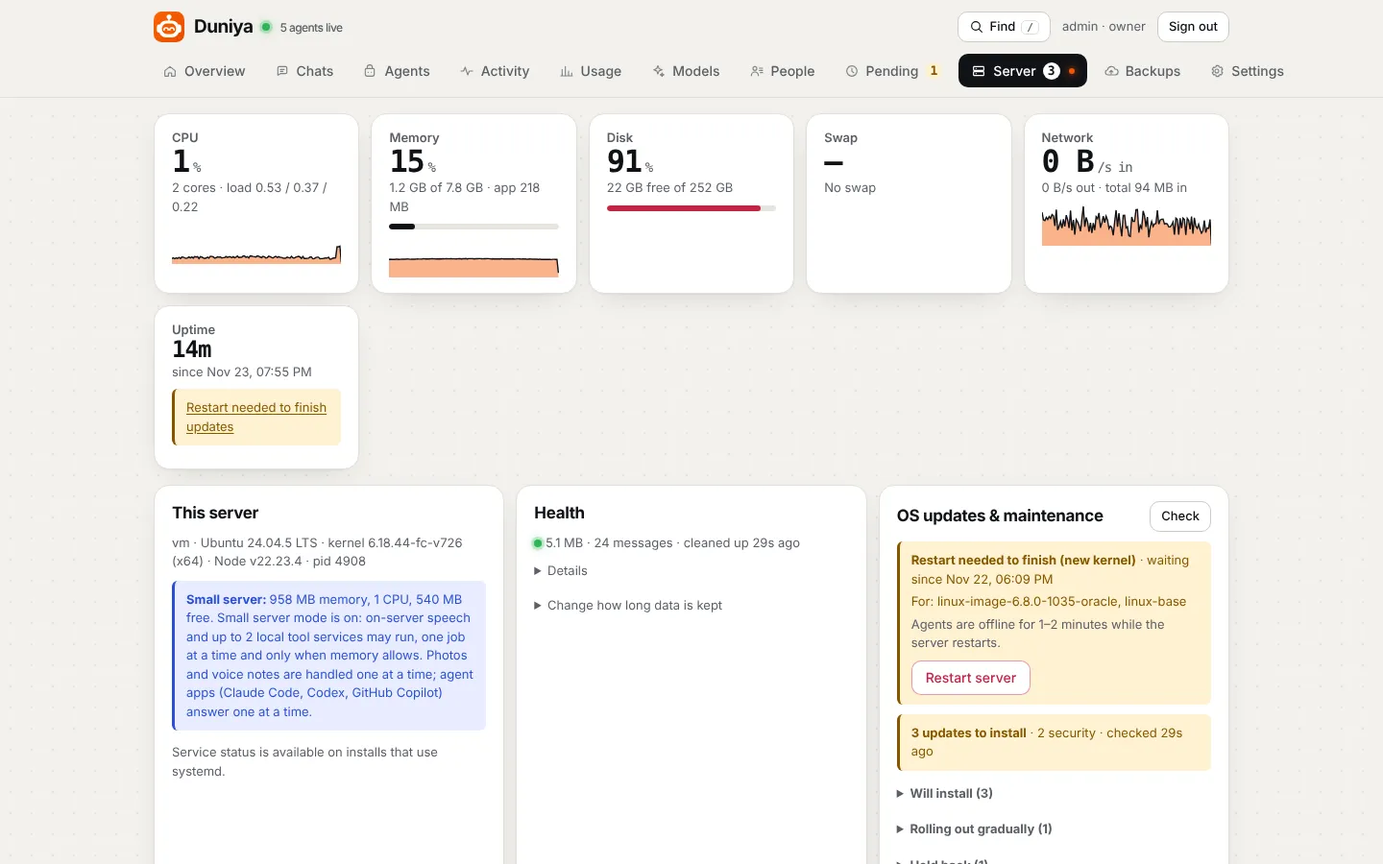
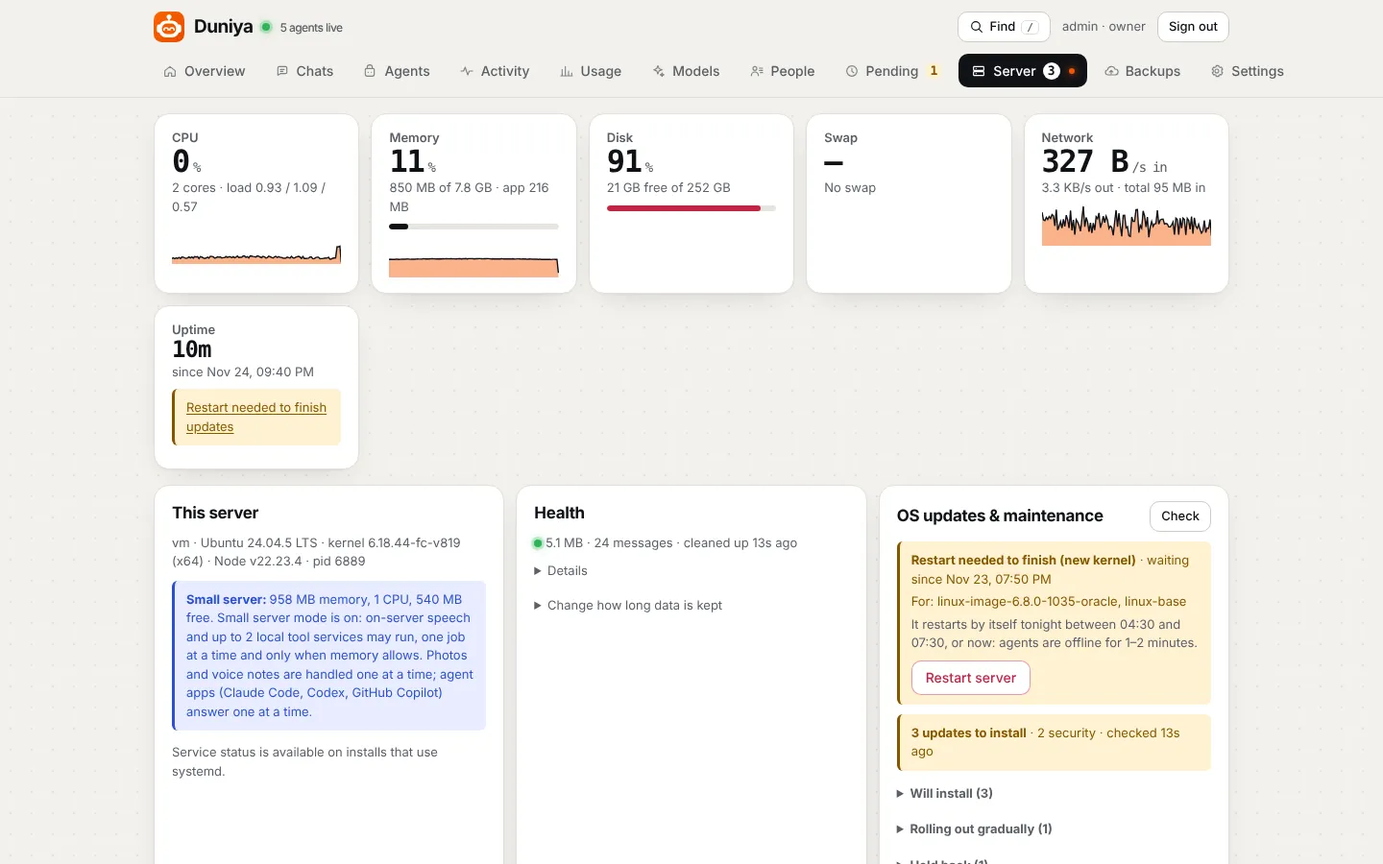
Automatic OS updates, on by default (2.63.0)
Installer servers install waiting OS updates once a night (30 min after the app's update time, for 3 h, owner's clock) through the maintenance helper and restart when an update needs it, once a night; never while an app update or another helper action runs. Switch on Server -> OS updates & maintenance; admin MCP set_os_auto_updates. Spec 098, #307.

diff --git a/test/os-auto.test.js b/test/os-auto.test.js
@@ -1,0 +1,97 @@
+// 098: automatic OS updates — on by default; once a night after the app's update time the helper installs waiting OS
+// updates, then the server restarts when an update asked for it; never while something else runs. Fake helper
+// directories and captured apt output (test/fixtures/apt); no real apt or reboot.
+import { test, after, beforeEach } from 'node:test';
+import assert from 'node:assert/strict';
+import { mkdtempSync, mkdirSync, writeFileSync, readFileSync, existsSync, rmSync } from 'node:fs';
+import { tmpdir } from 'node:os';
+import { join, resolve } from 'node:path';
+import { setup } from './harness.js';
+
+const FX = resolve(import.meta.dirname, 'fixtures/apt');
+const ops = mkdtempSync(join(tmpdir(), 'duniya-osauto-'));
+for (const d of ['req', 'state', 'apt']) mkdirSync(join(ops, d));
+writeFileSync(join(ops, 'helper'), '#!/bin/sh\n# duniya-ops-version: 3\n');
+const APT = join(ops, 'apt');
+const REBOOT = join(ops, 'reboot-required');
+const REQUEST = join(ops, 'req', 'request');
+const STATUS = join(ops, 'state', 'status.json');
+const t = await setup({ env: {
+  DUNIYA_OPS_HELPER: join(ops, 'helper'), DUNIYA_OPS_REQUEST_DIR: join(ops, 'req'), DUNIYA_OPS_STATE_DIR: join(ops, 'state'),
+  DUNIYA_FAKE_APT: APT, DUNIYA_REBOOT_REQUIRED_FILE: REBOOT, TZ_DEFAULT: 'UTC',
+} });
+const { osAutoTick } = await import('../src/core/os-auto.js');
+const { kvSet } = await import('../src/core/db.js');
+const owner = await t.login();
+after(() => t.close());
+
+const at = (day, hh, mm) => Date.UTC(2026, 10, day, hh, mm);
+const waiting = (yes) => writeFileSync(join(APT, 'simulate.txt'), yes ? readFileSync(join(FX, 'sim-full-upgrade-phased-held.txt'), 'utf8') : '');
+const requested = () => (existsSync(REQUEST) ? readFileSync(REQUEST, 'utf8').trim() : null);
+const helperDone = () => { rmSync(REQUEST, { force: true }); writeFileSync(STATUS, JSON.stringify({ action: 'os-update', state: 'done', code: 0, startedAt: 1, endedAt: 2 })); };
+beforeEach(async () => {
+  helperDone(); rmSync(REBOOT, { force: true });
+  kvSet('os:autoInstall', ''); kvSet('os:autoRestart', '');
+  writeFileSync(join(APT, 'policy.txt'), readFileSync(join(FX, 'policy.txt'), 'utf8'));
+  writeFileSync(join(APT, 'holds.txt'), 'docker-ce\n');
+  await t.api(owner, 'PUT', '/api/updates/settings', { os: 'auto', at: '04:00' });
+});
+
+test('098 on by default: the OS updates card shows the night window; off and back on; bad values refused', async () => {
+  const fresh = (await import('../src/core/updates.js')).getUpdateSettings;
+  assert.equal(fresh().os, 'auto');
+  assert.deepEqual((await t.api(owner, 'GET', '/api/system/ops')).body.auto, { on: true, from: '04:30', until: '07:30' });
+  assert.equal((await t.api(owner, 'PUT', '/api/updates/settings', { os: 'off' })).body.os, 'off');
+  assert.equal((await t.api(owner, 'GET', '/api/system/ops')).body.auto.on, false);
+  const bad = await t.api(owner, 'PUT', '/api/updates/settings', { os: 'sometimes' });
+  assert.equal(bad.status, 400); assert.equal(bad.body.field, 'os');
+});
+
+test('098 a night: outside the window nothing; in it the updates install, then one restart; nothing more that night', async () => {
+  waiting(true);
+  assert.equal((await osAutoTick(at(24, 4, 10))).action, 'later', 'the app update comes first');
+  assert.equal((await osAutoTick(at(24, 12, 0))).action, 'later', 'never in the day');
+  assert.equal(requested(), null);
+  const r = await osAutoTick(at(24, 4, 40));
+  assert.deepEqual(r, { action: 'installing', count: 3 });
+  assert.equal(requested(), 'os-update');
+  const logged = (await t.api(owner, 'GET', '/api/activity?limit=5')).body;
+  assert.ok(logged.some((e) => e.summary === 'Install OS updates requested by automatic OS updates'));
+  writeFileSync(STATUS, JSON.stringify({ action: 'os-update', state: 'running', startedAt: Date.now() }));
+  assert.equal((await osAutoTick(at(24, 4, 50))).action, 'busy', 'waits for the helper');
+  helperDone(); writeFileSync(REBOOT, '*** System restart required ***\n');
+  assert.equal((await osAutoTick(at(24, 5, 0))).action, 'restarting');
+  assert.equal(requested(), 'reboot');
+  helperDone(); // the server is back; the restart file would stay if a new kernel came later
+  assert.equal((await osAutoTick(at(24, 5, 10))).action, 'none', 'once a night');
+});
+
+test('098 nothing waiting and no restart needed: nothing runs; a restart left from a manual install happens at night', async () => {
+  waiting(false);
+  assert.equal((await osAutoTick(at(24, 4, 40))).action, 'none');
+  assert.equal(requested(), null);
+  writeFileSync(REBOOT, 'x');
+  assert.equal((await osAutoTick(at(24, 4, 50))).action, 'restarting');
+});
+
+test('098 off, or a window across midnight counted as one night', async () => {
+  waiting(true);
+  await t.api(owner, 'PUT', '/api/updates/settings', { os: 'off' });
+  assert.equal((await osAutoTick(at(24, 4, 40))).action, 'off');
+  await t.api(owner, 'PUT', '/api/updates/settings', { os: 'auto', at: '23:00' });
+  assert.equal((await osAutoTick(at(24, 23, 40))).action, 'installing');
+  helperDone();
+  assert.equal((await osAutoTick(at(25, 0, 20))).action, 'none', 'after midnight it is still the same night');
+});
+
+test('098 admin MCP: set_os_auto_updates asks before switching on, not before switching off', async () => {
+  const { TOOLS } = await import('../src/panel/admin-tools.js');
+  const tool = TOOLS.find((x) => x.name === 'set_os_auto_updates');
+  assert.equal(tool.risky({ on: true }), true); assert.equal(tool.risky({ on: false }), false);
+  const calls = [];
+  const x = { call: async (m, p, b) => { calls.push([m, p, b]); return p === '/api/system/ops' ? { auto: { from: '04:30', until: '07:30' } } : {}; } };
+  assert.match(await tool.preview({ on: true }, x), /between 04:30 and 07:30/);
+  await tool.run({ on: false }, x);
+  assert.deepEqual(calls.at(-1), ['PUT', '/api/updates/settings', { os: 'off' }]);
+  assert.match(TOOLS.find((y) => y.name === 'get_maintenance_status').description, /set_os_auto_updates/);
+});

diff --git a/src/panel/public/app/server.js b/src/panel/public/app/server.js
@@ -1,5 +1,5 @@
 // Server screen: metrics, health, OS updates, maintenance helper, logs, hosting. Module of the panel (063).
-import { $, S, ago, api, ask, can, field, h, partFailed, serverBadge, time, tryApi } from './core.js';
+import { $, S, ago, api, ask, can, field, h, partFailed, serverBadge, time, toggle, tryApi } from './core.js';
 import { docsUrl, SIZE_LABEL, bytes, meter, pct, plural } from './shared.js';
 function spark(values, max) {
   const ns = 'http://www.w3.org/2000/svg'; const svg = document.createElementNS(ns, 'svg');
@@ -130,7 +130,7 @@ export async function renderServer() {
       h('b', {}, `Restart needed to finish${reboot.kernel ? ' (new kernel)' : ' updates'}`),
       reboot.since ? ` · waiting since ${time(reboot.since)}` : '',
       reboot.packages?.length ? h('div', { class: 'small', style: 'margin-top:4px;overflow-wrap:anywhere' }, `For: ${reboot.packages.slice(0, 12).join(', ')}${reboot.packages.length > 12 ? ` and ${reboot.packages.length - 12} more` : ''}`) : null,
-      h('div', { class: 'small muted', style: 'margin-top:4px' }, 'Agents are offline for 1–2 minutes while the server restarts.'),
+      h('div', { class: 'small muted', style: 'margin-top:4px' }, ops?.auto?.on ? `It restarts by itself tonight between ${ops.auto.from} and ${ops.auto.until}, or now: agents are offline for 1–2 minutes.` : 'Agents are offline for 1–2 minutes while the server restarts.'),
       can('owner') && ops?.available ? h('div', { class: 'row', style: 'margin-top:8px' }, act('reboot', 'Restart server', 'danger', { title: 'Restart the whole server now?', text: 'This finishes the updates. Agents are offline for 1–2 minutes and catch up on messages afterwards.', body: reboot.packages?.length ? h('div', {}, h('b', { class: 'small' }, 'Waiting for the restart'), h('ul', { class: 'small' }, reboot.packages.slice(0, 30).map((p) => h('li', {}, p)))) : null })) : null) : null;
     const phasedHint = 'Ubuntu rolls these out gradually: it installs them automatically within days. They are not needed now.';
     const updates = !upd ? null : !upd.supported ? h('p', { class: 'small muted' }, 'OS update checks are available on Debian/Ubuntu servers.')
@@ -156,12 +156,19 @@ export async function renderServer() {
         : h('div', { class: 'note info', id: 'helper-update', style: 'margin-top:10px' },
           h('b', {}, 'This server has an older maintenance helper'), ' that cannot update itself yet. Run ', h('code', {}, 'sudo duniya update'),
           ' on the server once; after that it updates itself from here. No SSH access (for example an Oracle server created without an SSH key)? Reinstall instead: ', helperDoc, ' (your data comes back from a backup).');
+    // 098: automatic OS updates (on by default): install every night and restart when an update needs it
+    const auto = ops?.auto && ops.available ? h('div', { class: 'row spread nowrap', id: 'os-auto', style: 'margin:10px 0' },
+      h('span', {}, h('b', {}, 'Install OS updates automatically'), h('span', { class: 'small muted', style: 'display:block' },
+        ops.auto.on ? `Every night between ${ops.auto.from} and ${ops.auto.until} (your time), when updates are waiting. If one needs a restart, the server restarts then too: agents are offline for 1–2 minutes.`
+          : 'Off: OS updates wait for you to install them here.')),
+      toggle(ops.auto.on, (on) => tryApi(async () => { await api('PUT', '/api/updates/settings', { os: on ? 'auto' : 'off' }); opsCard(); }, on ? 'OS updates install automatically' : 'Automatic OS updates off'), false, 'Install OS updates automatically')) : null;
     opsBox.replaceChildren(h('div', { class: 'row spread' }, h('h2', { style: 'margin:0' }, 'OS updates & maintenance'),
       h('button', { class: 'btn small', onclick: async (e) => { e.target.disabled = true; await api('GET', '/api/system/os-updates?refresh=1').catch(() => {}); opsCard(); } }, 'Check')),
       failed ? partFailed(failed, '', opsCard) : null, restartBanner, updates,
       can('owner') ? (ops?.available ? h('div', {},
         run ? h('div', { class: 'note' }, h('span', { class: 'spinner' }), h('b', {}, ` ${ops.actions[run.action] || run.action}…`), ` started ${ago(run.startedAt)} ago`) : null,
         lastLine,
+        auto,
         h('div', { class: 'row', style: 'margin-top:8px' },
           act('os-update', 'Install OS updates', 'primary', { title: 'Install the OS updates now?', text: 'The server stays online. Updates Ubuntu is still rolling out gradually wait. A restart may be needed afterwards.', body: pkgList(upd?.install) }),
           upd?.phased?.length && ops.helperCurrent ? act('os-update-all', 'Include gradual updates now', '', { title: `Also install ${plural(upd.phased.length, 'gradual update')}?`, text: 'Ubuntu is still rolling these out gradually; normally they arrive within days.', body: pkgList(upd.phased) }) : null,

diff --git a/docs/site/index.html b/docs/site/index.html
@@ -303,7 +303,7 @@
       <article class="tile third">
         <span class="label">Backups &amp; updates</span>
         <h3>Encrypted backups. Updates that tell you what's new.</h3>
-        <p>Scheduled, encrypted backups to a private GitHub repo or S3. Updates install from the panel after a backup and show every release in between; breaking ones wait for your OK on the panel or WhatsApp. A release that does not start on your server is rolled back by itself.</p>
+        <p>Scheduled, encrypted backups to a private GitHub repo or S3. Updates install from the panel after a backup and show every release in between; breaking ones wait for your OK on the panel or WhatsApp. A release that does not start on your server is rolled back by itself, and OS updates install by themselves at night (with a restart when one needs it).</p>
         <a class="shot tall" href="img/card-update-notes.webp"><img src="img/card-update-notes.webp" width="1280" height="1358" loading="lazy" alt="Update dialog: the releases in between with what is new, improved and fixed, and the buttons Not now and Update."></a>
       </article>
     </div>
@@ -397,7 +397,7 @@
       <details><summary>Only WhatsApp?</summary><p>WhatsApp and Telegram. Telegram works through an official bot: paste its token, add it to a group, and the same agents answer there; people who share their number are the same person on both apps. Channels load only when you set one up, so neither costs memory until then. <a href="https://github.com/vikramgorla/duniya/blob/main/docs/telegram.md">Connect Telegram</a></p></details>
       <details><summary>What do I need to start?</summary><p>A spare phone number for the agents (a prepaid SIM in an old phone is fine), or a Telegram bot; a free Oracle or Google Cloud account (or any small Linux server); and a model: a free OpenRouter key takes two minutes. The panel's <b>Getting started</b> then takes about five taps.</p></details>
       <details><summary>Something did not work. Where do I look?</summary><p>The <a href="https://github.com/vikramgorla/duniya/blob/main/docs/troubleshooting.md">troubleshooting guide</a> covers the ten most common first-day problems (QR code, phone offline, model key, a silent agent, HTTPS, memory, updates). The panel's <b>Why agents stayed quiet</b> names the reason an agent did not answer, with the fix. Still stuck? Open an issue with the <i>Question or help</i> template.</p></details>
-      <details><summary>Do I need to know Linux?</summary><p>No. The Oracle and Google buttons need no terminal skills, and afterwards updates, OS packages, logs, restarts and backups are buttons in the panel.</p></details>
+      <details><summary>Do I need to know Linux?</summary><p>No. The Oracle and Google buttons need no terminal skills, and afterwards OS updates install by themselves at night; app updates, logs, restarts and backups are buttons in the panel.</p></details>
       <details><summary>Can several people manage it?</summary><p>Yes: owners, admins and viewers, with passwords or Sign in with Google. You can also manage it from ChatGPT or Claude, with the same roles and a confirmation for risky actions.</p></details>
       <details><summary>Can I fork it and run my own version?</summary><p>Yes, it is MIT licensed. Fork it on GitHub and enable Actions: a workflow points the install command, the buttons, this website and the Docker image at your fork and opens a pull request. Servers can then install from your fork (<code>DUNIYA_REPO=you/duniya</code>) or switch to it under <b>Settings → Updates</b>. <a href="https://github.com/vikramgorla/duniya/blob/main/CONTRIBUTING.md#forking">How to fork</a>.</p></details>
       <details><summary>How do I report a security issue?</summary><p>Privately, through GitHub's “Report a vulnerability” on the repository; see <a href="https://github.com/vikramgorla/duniya/blob/main/SECURITY.md">SECURITY.md</a>.</p></details>

diff --git a/src/panel/admin-tools/server.js b/src/panel/admin-tools/server.js
@@ -90,7 +90,7 @@ export const SERVER_TOOLS = [
   { name: 'list_os_updates', openWorld: true, readOnly: true, calls: [['GET', '/api/system/os-updates']], description: 'Operating-system package updates, grouped: install (will install now; count = how many), phased (Ubuntu is rolling them out gradually: they install automatically within days, or now with run_maintenance os-update-all) and held (kept back, with the reason in why).',
     input: { refresh: bool('Check again now (slower)') },
     run: (a, x) => x.call('GET', `/api/system/os-updates${a.refresh ? '?refresh=1' : ''}`) },
-  { name: 'get_maintenance_status', readOnly: true, calls: [['GET', '/api/system/ops']], description: 'Available server maintenance actions, the state of the last one, result.text (summary of the last OS update), reboot (whether a restart is needed to finish updates, and for which packages) and the maintenance helper: helperVersion, helperBundled (the one this release ships), helperOutdated, helperSelfUpdate (it can update itself with run_maintenance update-helper; otherwise sudo duniya update once or a reinstall).', input: {},
+  { name: 'get_maintenance_status', readOnly: true, calls: [['GET', '/api/system/ops']], description: 'Available server maintenance actions, the state of the last one, result.text (summary of the last OS update), reboot (whether a restart is needed to finish updates, and for which packages), auto (automatic OS updates: on, and the night window from–until in the owner\'s time; set_os_auto_updates) and the maintenance helper: helperVersion, helperBundled (the one this release ships), helperOutdated, helperSelfUpdate (it can update itself with run_maintenance update-helper; otherwise sudo duniya update once or a reinstall).', input: {},
     run: (a, x) => x.call('GET', '/api/system/ops') },
   { name: 'run_maintenance', openWorld: true, risky: true, calls: [['POST', '/api/system/ops']],
     description: 'Run a server maintenance action: os-update (install OS updates; Ubuntu\'s gradual roll-outs wait), os-update-all (also the updates Ubuntu is still rolling out gradually), os-cleanup, restart-web, restart-tunnel, reboot (also finishes updates that need a restart) or update-helper (the root maintenance helper fetches the copy of this app\'s release from the repository it was installed from and installs it; get_maintenance_status shows helperOutdated / helperSelfUpdate). Needs confirm_action.',
@@ -106,6 +106,11 @@ export const SERVER_TOOLS = [
       return `${label}. ${effect}`.trim();
     },
     run: (a, x) => x.call('POST', '/api/system/ops', { action: a.action }) },
+  { name: 'set_os_auto_updates', calls: [['PUT', '/api/updates/settings']], risky: (a) => a.on === true,
+    description: 'Automatic OS updates on installer servers (098, on by default): every night after the app\'s update time the maintenance helper installs the waiting OS updates and restarts the server when one needs it (agents offline 1–2 minutes). on: false leaves OS updates to run_maintenance. get_maintenance_status → auto: { on, from, until } (the owner\'s times). Turning it on needs confirm_action.',
+    input: { on: bool('Install OS updates automatically') }, required: ['on'],
+    preview: async (a, x) => { const w = (await x.call('GET', '/api/system/ops')).auto; return `Install OS updates automatically every night between ${w.from} and ${w.until} (owner's time) and restart the server when an update needs it (agents offline 1–2 minutes).`; },
+    run: (a, x) => x.call('PUT', '/api/updates/settings', { os: a.on ? 'auto' : 'off' }) },
   { name: 'restart_app', risky: true, calls: [['POST', '/api/system/restart']], description: 'Restart the app. Needs confirm_action.', input: {},
     preview: async () => 'Restart the app. Agents are offline for about a minute and this connection drops briefly.',
     run: (a, x) => x.call('POST', '/api/system/restart') },

diff --git a/src/core/os-auto.js b/src/core/os-auto.js
@@ -1,0 +1,51 @@
+// @ts-check
+// Automatic OS updates (098). On installer servers the root maintenance helper installs the waiting OS updates every
+// night, a little after the app's own update time (the owner's clock), and restarts the server when an update needs
+// it (a new kernel). On by default: update settings `os` ('auto' | 'off'). It rides the update scheduler's round
+// (update-decision.js, every 10 minutes), so it has no timer of its own; each step happens at most once a night.
+import { getUpdateSettings, updateRunning } from './updates.js';
+import { opsAvailable, opsRunning, osUpdates, rebootStatus, requestOp } from './system.js';
+import { ownerDay, ownerNow } from './owner-clock.js';
+import { kvGet, kvSet } from './db.js';
+
+const MINUTE = 60 * 1000;
+const DAY_MIN = 24 * 60;
+const AFTER_APP_MIN = 30; // the app's own update (and its restart) comes first
+const WINDOW_MIN = 180; // then three hours: a server that was off at the start still updates, never in the owner's day
+const BY = 'automatic OS updates';
+const INSTALLED = 'os:autoInstall'; // the night (owner's date the window opened) of the last check-and-install
+const RESTARTED = 'os:autoRestart'; // the night of the last automatic restart
+
+const minutesOf = (hhmm) => Number(hhmm.slice(0, 2)) * 60 + Number(hhmm.slice(3, 5));
+const hhmmOf = (min) => `${String(Math.floor(min / 60)).padStart(2, '0')}:${String(min % 60).padStart(2, '0')}`;
+/** Minutes since tonight's window opened, or null outside it (it may cross midnight). */
+function minutesIntoWindow(at, hhmm) {
+  const since = (minutesOf(hhmm) - minutesOf(at) - AFTER_APP_MIN + 2 * DAY_MIN) % DAY_MIN;
+  return since <= WINDOW_MIN ? since : null;
+}
+
+/** What the panel and the admin MCP show: { on, from, until } (the owner's times). */
+export function osAutoState() {
+  const s = getUpdateSettings();
+  const from = (minutesOf(s.at) + AFTER_APP_MIN) % DAY_MIN;
+  return { on: s.os === 'auto', from: hhmmOf(from), until: hhmmOf((from + WINDOW_MIN) % DAY_MIN) };
+}
+
+/** One round: install waiting OS updates once a night, then restart once when an update asked for it. */
+export async function osAutoTick(now = Date.now()) {
+  const s = getUpdateSettings();
+  if (s.os !== 'auto' || !opsAvailable()) return { action: 'off' };
+  const since = minutesIntoWindow(s.at, ownerNow(now).hhmm);
+  if (since === null) return { action: 'later' };
+  if (updateRunning() || opsRunning()) return { action: 'busy' };
+  const night = ownerDay(now - since * MINUTE);
+  if (kvGet(INSTALLED) !== night) {
+    kvSet(INSTALLED, night);
+    const waiting = await osUpdates({ refresh: true });
+    if (waiting.supported && waiting.count) { requestOp('os-update', BY); return { action: 'installing', count: waiting.count }; }
+  }
+  if (!rebootStatus().required || kvGet(RESTARTED) === night) return { action: 'none' };
+  kvSet(RESTARTED, night);
+  requestOp('reboot', BY);
+  return { action: 'restarting' };
+}

diff --git a/src/core/system.js b/src/core/system.js
@@ -315,6 +315,13 @@ function opsHelperVersion() {
 /** The helper version this app release ships (deploy/ops/duniya-ops in the app's checkout; read, never run). */
 const opsHelperBundled = () => helperVersionOf(read(`${ROOT}/deploy/ops/duniya-ops`));
 const RELEASE_RE = /^v\d{1,4}\.\d{1,4}\.\d{1,4}$/;
+const RUN_STALE_MS = 60 * 60000; // a run the helper never finished (a reboot cut it off) stops counting after an hour
+/** The maintenance action running now ({ action, startedAt }) or null. */
+export function opsRunning() {
+  let status = null;
+  try { status = JSON.parse(read(`${OPS_STATE_DIR}/status.json`) || 'null'); } catch { /* none */ }
+  return status?.state === 'running' && Date.now() - (status.startedAt || 0) < RUN_STALE_MS ? status : null;
+}
 export function opsStatus() {
   let status = null;
   try { status = JSON.parse(read(`${OPS_STATE_DIR}/status.json`) || 'null'); } catch { /* none */ }
@@ -346,8 +353,8 @@ export function requestOp(action, by = '', { files = {} } = {}) {
     if (!RELEASE_RE.test(v)) throw fail('The app version is not a release number');
     files = { ...files, 'helper-version': `${v}\n` }; // the helper accepts only vX.Y.Z and fetches that release itself
   }
-  const cur = opsStatus().status;
-  if (cur?.state === 'running' && Date.now() - (cur.startedAt || 0) < 60 * 60000) throw fail(`Already running: ${cur.action}`, 409);
+  const cur = opsRunning();
+  if (cur) throw fail(`Already running: ${cur.action}`, 409);
   mkdirSync(OPS_REQUEST_DIR, { recursive: true });
   for (const [name, content] of Object.entries(files)) writeFileSync(`${OPS_REQUEST_DIR}/${name}`, content, { mode: 0o640 }); // read by the helper
   writeFileSync(`${OPS_REQUEST_DIR}/request`, `${action}\n`);

diff --git a/src/panel/routes/system.js b/src/panel/routes/system.js
@@ -12,6 +12,7 @@ import { applyPending } from '../../core/runner.js';
 import { referencedSecrets } from '../../core/schema.js';
 import { CHANNELS } from '../../channels/index.js';
 import { getSetting, listSecrets, setSecret, updateSettings } from '../../core/store.js';
+import { osAutoState } from '../../core/os-auto.js';
 import { logs as sysLogs, metricsHistory, opsStatus, osUpdates, requestOp, snapshot as sysSnapshot } from '../../core/system.js';
 import { PLAN_PROVIDERS, listPrices, setPrice, smartReport, usageReport } from '../../core/usage.js';
 
@@ -71,7 +72,7 @@ export function systemRoutes(route, { channel } = {}) {
   route('GET', '/api/system/history', async () => metricsHistory());
   route('GET', '/api/system/os-updates', async ({ query }) => osUpdates({ refresh: query.get('refresh') === '1' }), { role: 'admin' });
   route('GET', '/api/system/logs', async ({ query }) => sysLogs(query.get('unit') || 'whatsapp-agent-duniya', query.get('lines')), { role: 'admin' });
-  route('GET', '/api/system/ops', async () => opsStatus(), { role: 'owner' });
+  route('GET', '/api/system/ops', async () => ({ ...opsStatus(), auto: osAutoState() }), { role: 'owner' }); // 098: automatic OS updates
   route('POST', '/api/system/ops', async ({ body, user }) => requestOp(String(body.action || ''), user.username), { role: 'owner' });
 
   // ---------- channels (075): which channels exist, on/off (off = connections closed, adapter dropped) ----------

diff --git a/src/core/updates.js b/src/core/updates.js
@@ -34,7 +34,8 @@ export function installKind() {
 
 export const newestTag = (tags) => tags.filter((t) => parseVersion(t)).sort(compareVersions).at(-1) || null;
 
-const DEFAULTS = { mode: process.env.UPDATE_MODE || 'notify', channel: 'stable', at: '04:00', keepPreUpdate: 3 };
+// 098: os: OS updates install by themselves every night (os-auto.js) unless the owner switches them off
+const DEFAULTS = { mode: process.env.UPDATE_MODE || 'notify', channel: 'stable', at: '04:00', keepPreUpdate: 3, os: 'auto' };
 export function getUpdateSettings() {
   const s = getSetting('updates', {}) || {};
   return { ...DEFAULTS, mode: process.env.UPDATE_MODE || 'notify', ...s };
@@ -42,6 +43,7 @@ export function getUpdateSettings() {
 export function setUpdateSettings(patch) {
   const next = { ...getUpdateSettings(), ...patch };
   if (!['off', 'notify', 'auto'].includes(next.mode)) throw fail('mode: off, notify or auto', 400, { field: 'mode' });
+  if (!['auto', 'off'].includes(next.os)) throw fail('os: auto or off', 400, { field: 'os' });
   if (!['stable', 'main'].includes(next.channel)) throw fail('channel: stable or main', 400, { field: 'channel' });
   if (!/^([01]\d|2[0-3]):[0-5]\d$/.test(next.at)) throw fail('at: HH:MM', 400, { field: 'at' });
   next.keepPreUpdate = Number(next.keepPreUpdate);

diff --git a/src/core/update-decision.js b/src/core/update-decision.js
@@ -21,6 +21,7 @@ import { releaseRange } from './releases.js';
 import { sendOwnerAlert, ownerNumber } from './owner-alerts.js';
 import { listLinks, registerConfirmHandler } from './owner-assistant.js';
 import { chatChannel } from './chat-tools.js';
+import { osAutoTick } from './os-auto.js';
 
 const DAY = 86400000;
 const SNOOZE_DAYS = 7;
@@ -202,6 +203,7 @@ async function deliverRollbackAlert() {
 export async function updateTick({ now = new Date() } = {}) {
   await deliverUpdateReport(now.getTime()).catch(recordFailure('The update result message'));
   await deliverRollbackAlert().catch(recordFailure('The alert that an update was rolled back'));
+  await osAutoTick(now.getTime()).catch(recordFailure('Automatic OS updates')); // 098: its own quiet window, after the app's
   const s = getUpdateSettings();
   if (s.mode === 'off') return { action: 'off' };
   const st0 = updateStatus();

diff --git a/docs/admin-mcp.md b/docs/admin-mcp.md
@@ -91,7 +91,7 @@ rotation). Spec: [`specs/017-admin-mcp/`](../specs/017-admin-mcp/spec.md).
 | Models | models, [Smart choice](intelligence.md#smart-model-choice) (`set_default_models` with `light_model`, `strong_model`, `smart_classifier`; `get_smart_model_savings`), accounts (`list_model_accounts` with each account's health: paused until when and why, e.g. a usage limit; for [agent apps](models.md#agent-apps) also whether the app is downloaded and its measured memory), fallback, photos & voice. Agent apps are connected by the owner in the panel (their own sign-in) |
 | Tools | global tool services, how agents use each service (`get_tool_behaviour`, `set_tool_behaviour`: when to use it (for media services also sharing on its own), changes, limits, per-tool risk; per agent or the default), browse and add from the MCP Registry (`search_mcp_registry`, `add_tool_service_from_registry`), secrets, confirmations, logging |
 | Server | updates (`get_update_status` with the notes of every release in between, incl. breaking releases: `apply_update` with `breaking: true`, `snooze_update_decision`; `rolledBack` when a release did not start and the server put the previous one back; the update source: `source` in `get_update_status`,
-`set_update_source` to a fork or back to the project, confirm required), release notes (`get_release_notes`: what each installed version brought, any range), metrics (with hosting), OS updates (`list_os_updates`: will install / rolling out gradually / held back; `run_maintenance` `os-update` or `os-update-all` to include gradual updates; restart-needed status), the root maintenance helper (`get_maintenance_status` → `helperOutdated`, `helperSelfUpdate`; `run_maintenance` `update-helper`), Small server mode (`set_small_server_mode`, confirm required), health and retention (`get_server_health`: database size, oldest kept data, last clean-up, disk, queue, clock; `set_retention`, confirm required), restart, backups |
+`set_update_source` to a fork or back to the project, confirm required), release notes (`get_release_notes`: what each installed version brought, any range), metrics (with hosting), OS updates (`list_os_updates`: will install / rolling out gradually / held back; `run_maintenance` `os-update` or `os-update-all` to include gradual updates; restart-needed status; automatic OS updates at night: `get_maintenance_status` → `auto`, `set_os_auto_updates`, confirm required to switch on), the root maintenance helper (`get_maintenance_status` → `helperOutdated`, `helperSelfUpdate`; `run_maintenance` `update-helper`), Small server mode (`set_small_server_mode`, confirm required), health and retention (`get_server_health`: database size, oldest kept data, last clean-up, disk, queue, clock; `set_retention`, confirm required), restart, backups |
 
 The list is in `src/panel/admin-tools.js`, one file per area in `src/panel/admin-tools/`; a feature that adds panel
 functionality adds its tool there

diff --git a/specs/098-os-auto-updates/spec.md b/specs/098-os-auto-updates/spec.md
@@ -1,0 +1,38 @@
+# Feature Specification: Automatic OS updates
+
+**Feature Branch**: `feat/307-os-auto-updates` · **Issue**: #307 · **Status**: Implemented (2.63.0)
+
+## User Scenarios & Testing
+
+### User Story 1 — The server patches itself (P1)
+The owner never has to press **Install OS updates** or **Restart server**: on an installer server the OS updates
+install by themselves at night, and the server restarts when an update needs it.
+
+**Acceptance**
+1. A fresh or updated server has automatic OS updates on, without any setting.
+2. When updates wait, they install once a night, from 30 minutes after the app's update time (owner's clock) and within
+   three hours; Activity says *Install OS updates requested by automatic OS updates*.
+3. When an update needs a restart, the server restarts in the same window, once a night.
+4. Nothing runs outside the window, while an app update or another maintenance action runs, or when nothing waits.
+
+### User Story 2 — The owner can switch it off (P2)
+**Server → OS updates & maintenance → Install OS updates automatically** shows the night window and switches it off
+(and on); the admin MCP has `set_os_auto_updates` (switching on needs a confirmation) and `get_maintenance_status → auto`.
+
+### Edge Cases
+- An app update time late in the evening: the window crosses midnight and still counts as one night.
+- A restart left from a manual install: done at night by the same rule.
+- Docker and servers without the maintenance helper: nothing happens and no switch is shown.
+- An install that fails: tried again the next night (the helper finishes a cut-off run first).
+
+## Requirements
+- **FR-001**: Update settings carry `os: 'auto' | 'off'`, default `auto`; other values are refused (400, field `os`).
+- **FR-002**: The round rides the existing update scheduler (every 10 minutes, installer servers only): no new timer.
+- **FR-003**: At most one install request and one restart request per night, through the existing helper actions
+  (`os-update`, `reboot`), never while `updateRunning()` or a helper action runs.
+- **FR-004**: The panel's OS updates card shows the switch and the window; the admin MCP covers it.
+
+## Success Criteria
+- **SC-001**: With automatic updates on, a server with waiting updates has them installed within one night, and a
+  pending restart is done the same night, with no owner action.
+- **SC-002**: No more than one automatic restart per night.

diff --git a/README.md b/README.md
@@ -63,7 +63,7 @@ then takes about five taps: link WhatsApp, connect a model, pick a template, swi
 <td valign="top"><a href="docs/privacy.md"><img src="docs/img/thumb-privacy.webp" alt="Privacy notice settings" width="100%"></a><br><b>Silent by default</b><br>Off chats are never stored or sent to a model; groups are told once. Tools are allowed per role, in code; an organizer's <a href="docs/agents.md#how-sure-before-changing-things">clear request is the go-ahead</a> for small changes, deletes and money still ask. Reads and types at a <a href="docs/sending-pace.md">person's pace</a>.</td>
 <td valign="top"><a href="docs/everyday.md#on-your-phone"><img src="docs/img/thumb-phone.webp" alt="The panel on a phone" width="100%"></a><br><b>On your phone</b><br>Installs on your home screen: tab bar at your thumb, compact screens, live, light and dark. Nothing from a store.</td>
 <td valign="top"><a href="docs/small-servers.md"><img src="docs/img/thumb-small-server.webp" alt="Server card for a small server" width="100%"></a><br><b>Made for a 1 GB VM</b><br>~180 MB of RAM. Channels load only when used: WhatsApp, and <a href="docs/telegram.md">Telegram</a> (a bot, a few MB). Old data pruned by itself; reconnects, crashes and a full disk handled without you.</td>
-<td valign="top"><a href="docs/backups-and-updates.md"><img src="docs/img/thumb-backups.webp" alt="Backups page" width="100%"></a><br><b>Backups &amp; updates</b><br>Encrypted to GitHub or S3. One-click updates that show what's new; breaking ones wait for you, and a release that does not start is rolled back by itself. No SSH.</td>
+<td valign="top"><a href="docs/backups-and-updates.md"><img src="docs/img/thumb-backups.webp" alt="Backups page" width="100%"></a><br><b>Backups &amp; updates</b><br>Encrypted to GitHub or S3. One-click updates that show what's new; breaking ones wait for you, and a release that does not start is rolled back by itself. OS updates install by themselves at night. No SSH.</td>
 </tr>
 </table>
 
